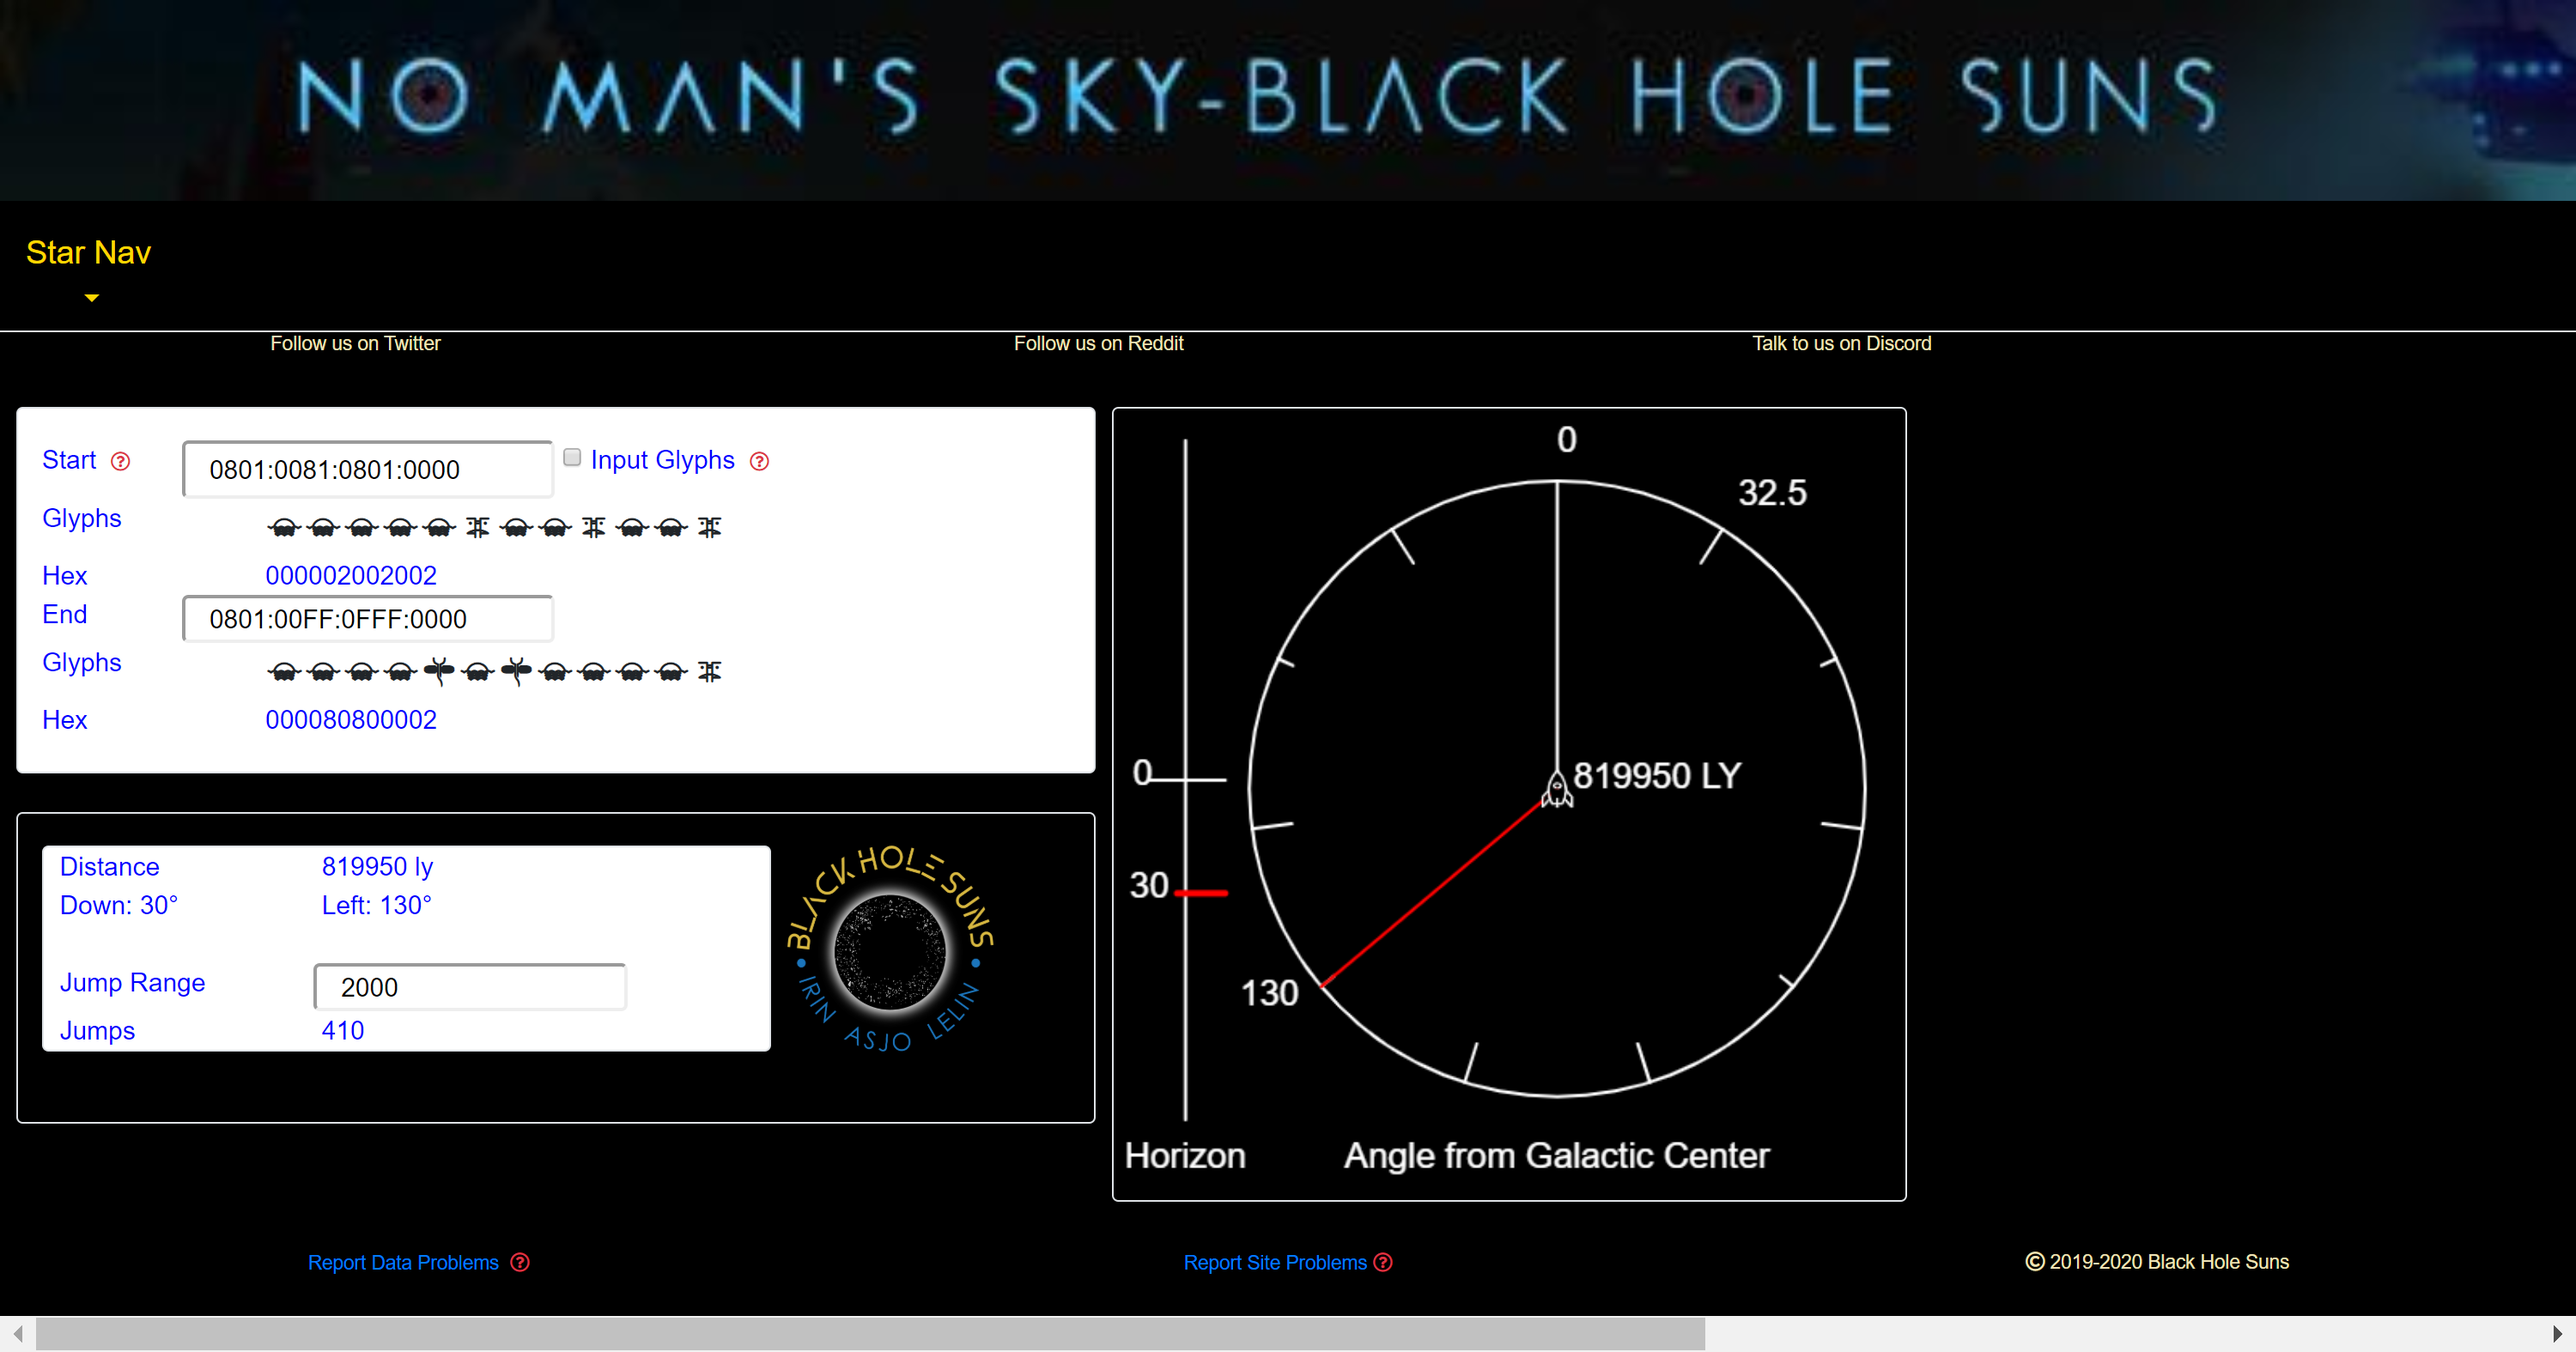
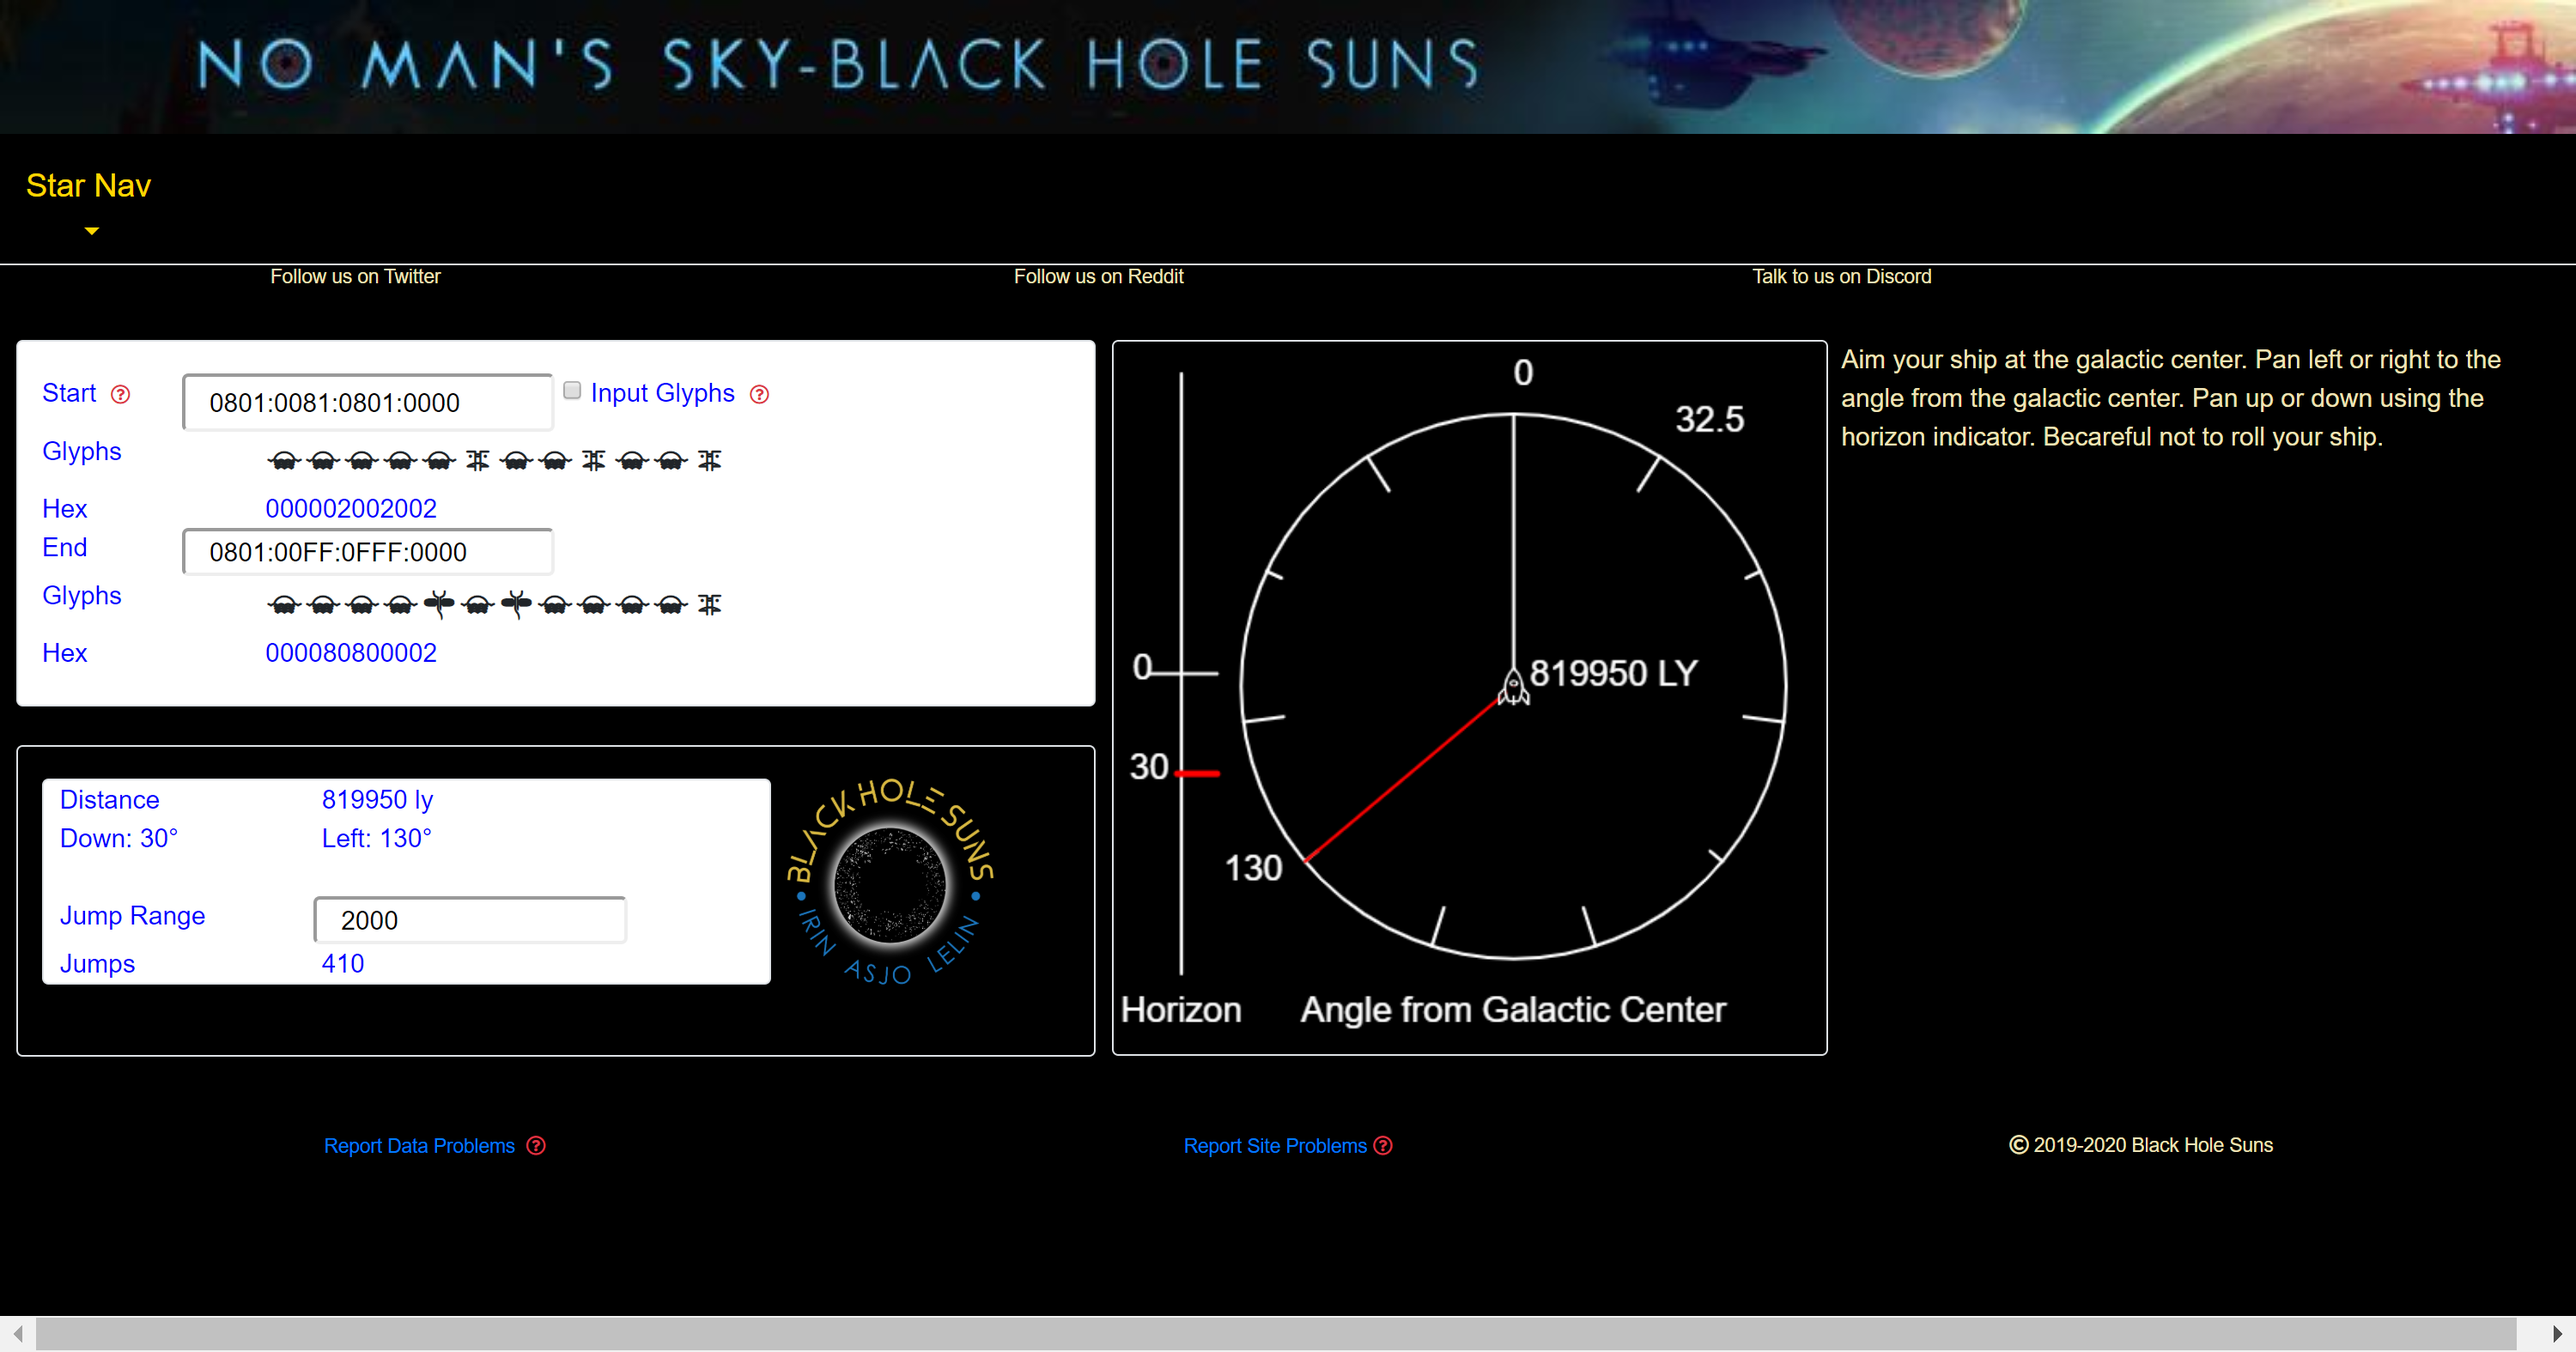
add basic instructions to nav screen

diff --git a/public/nav.html b/public/nav.html
@@ -253,7 +253,9 @@
             <div class="col-xl-4 col-lg-5 col-md-5 col-14">
                 <canvas id="dir-canvas" class="border rounded" height=120 width=120></canvas>
             </div>
-        </div>
+            <p class="col clr-cream">
+                Aim your ship at the galactic center. Pan left or right to the angle from the galactic center. Pan up or down using the horizon indicator. Becareful not to roll your ship.
+            </p>
     </div>
     <br>
 
